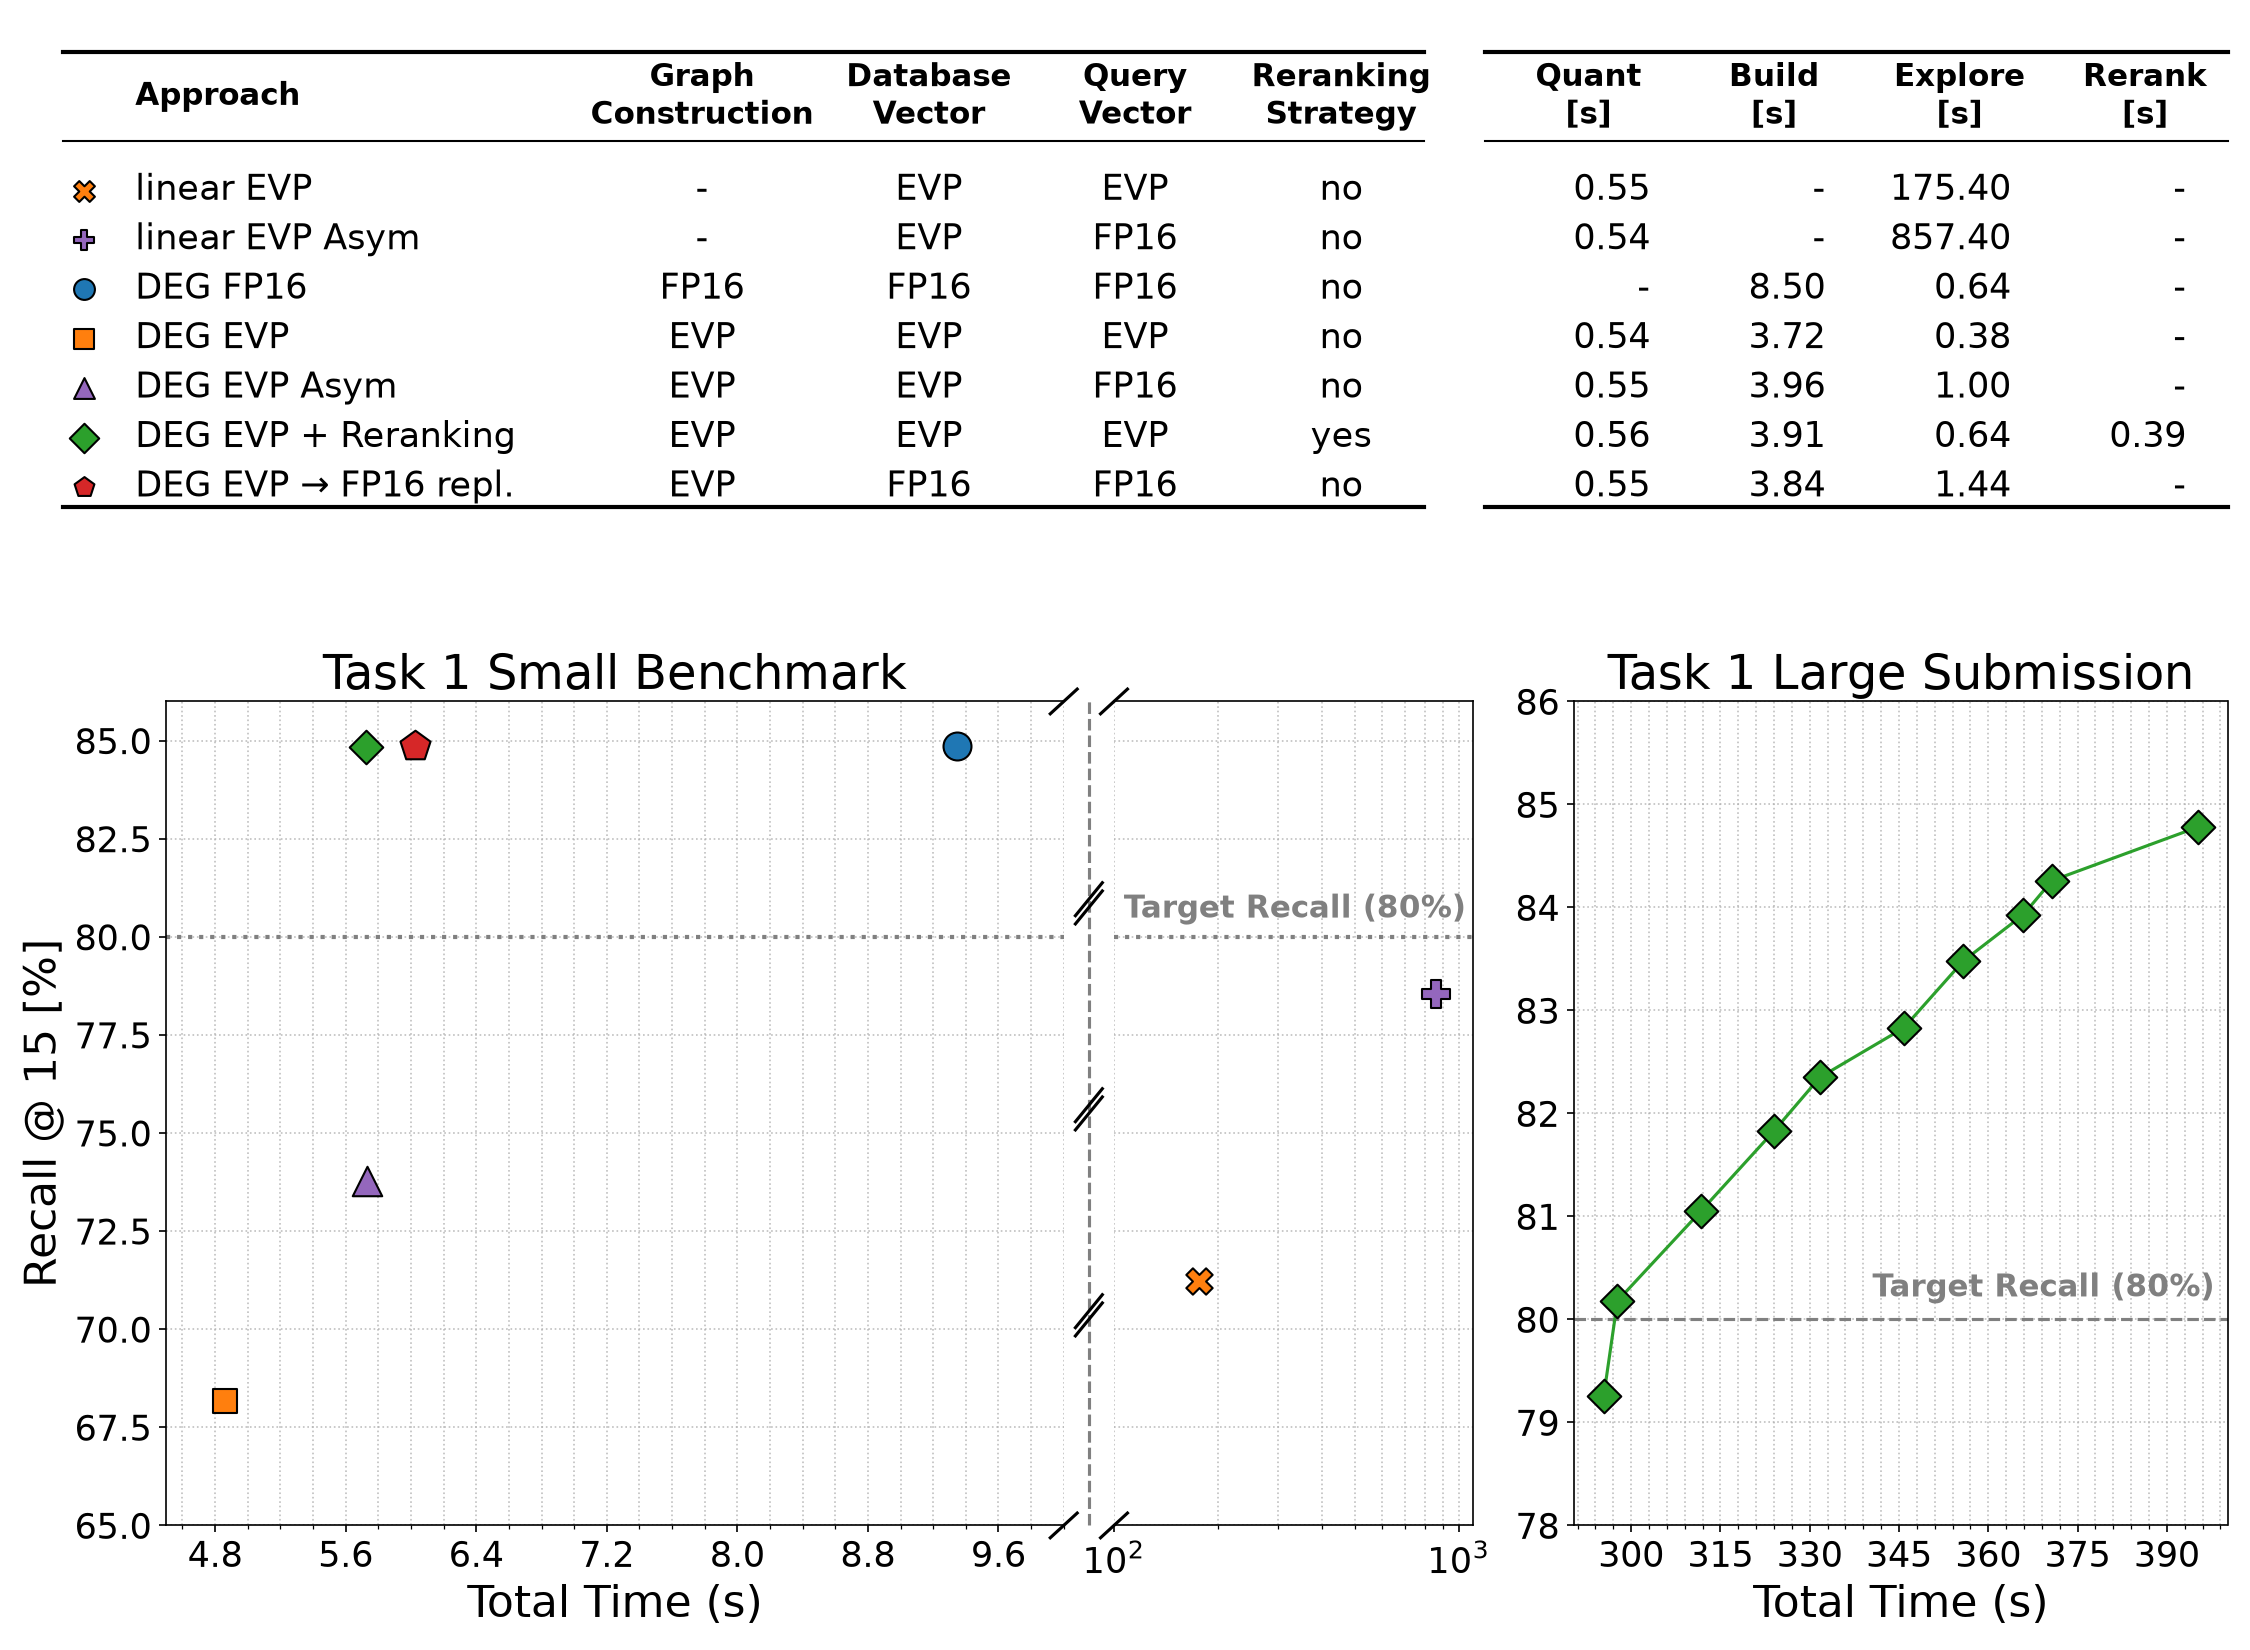
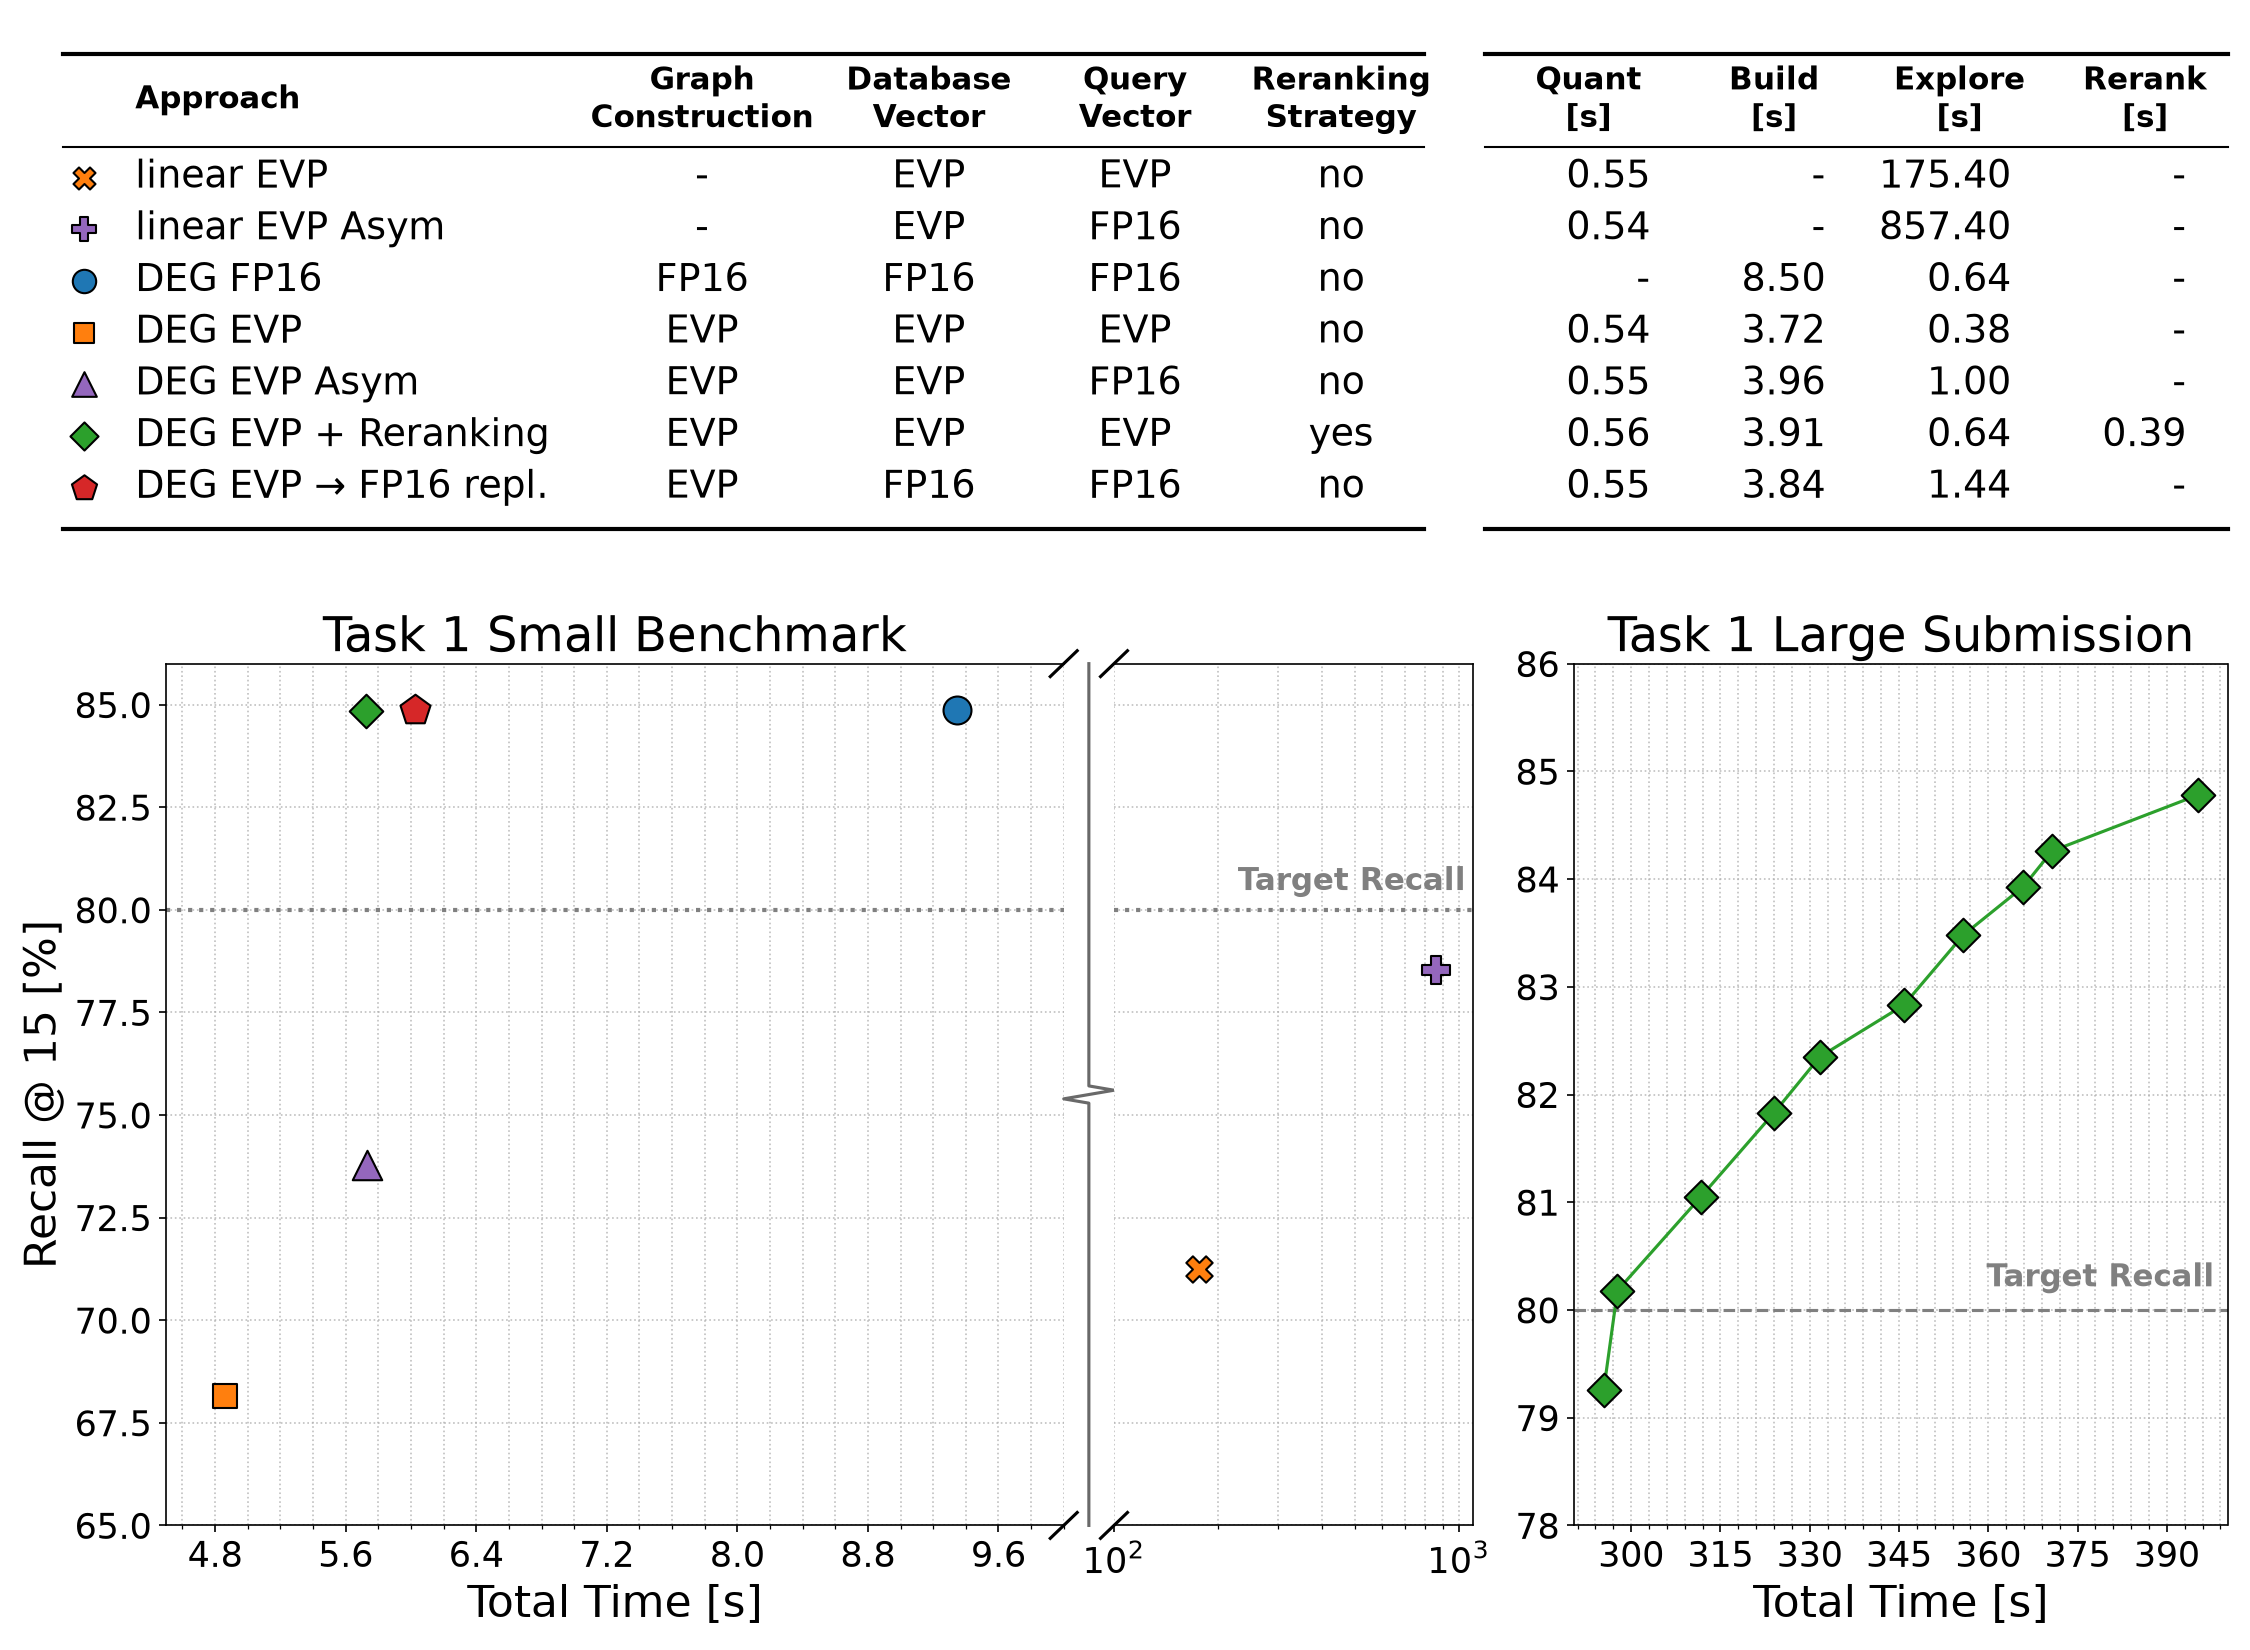
task2 cleanup

diff --git a/python/evaluate_combined_task1.py b/python/evaluate_combined_task1.py
@@ -110,6 +110,16 @@ def main() -> None:
             "recall": res_data.get("best_recall", 0.0) * 100.0
         })
 
+    small_sizes = {
+        "DEG FP16 Baseline": 180,
+        "DEG EVP Baseline": 130,
+        "DEG EVP-Asym": 200,
+        "DEG EVP + Reranking": 130,
+        "DEG EVP -> FP16 repl": 230,
+        "Lin EVP": 160,
+        "Lin EVP Asymm": 180,
+    }
+
     # Create figure with GridSpec to include a LaTeX-style table at the top
     fig = plt.figure(figsize=(15, 11), dpi=150)
     from matplotlib.gridspec import GridSpec
@@ -171,12 +181,13 @@ def main() -> None:
         ("tab:red", "p", "DEG EVP \u2192 FP16 repl.", "EVP", "FP16", "FP16", "no", "DEG EVP -> FP16 repl")
     ]
 
-    y_coords = [0.66, 0.56, 0.46, 0.36, 0.26, 0.16, 0.06]
+    y_coords = [0.70, 0.60, 0.50, 0.40, 0.30, 0.20, 0.10]
     for y, (color, style, app_name, graph, db, query, rerank, key) in zip(y_coords, rows):
         # Draw Symbol directly in the Approach column space
-        ax_table.scatter(-0.04, y, color=color, marker=style, s=100, edgecolor="black", zorder=5, clip_on=False)
+        marker_size = small_sizes.get(key, 150) * 0.7
+        ax_table.scatter(-0.04, y, color=color, marker=style, s=marker_size, edgecolor="black", zorder=5, clip_on=False)
         # Draw Approach name closer to the symbol
-        ax_table.text(-0.015, y, app_name, ha='left', va='center', fontsize=17, clip_on=False)
+        ax_table.text(-0.015, y, app_name, ha='left', va='center', fontsize=18, clip_on=False)
         
         data_entry = small_table_data.get(key, {"quant": "-", "build": "-", "explore": "-", "rerank": "-"})
         row_text = [
@@ -190,7 +201,7 @@ def main() -> None:
             data_entry["rerank"]
         ]
         for x, align, text in zip(data_x[1:], col_align[1:], row_text):
-            ax_table.text(x, y, text, ha=align, va='center', fontsize=17, clip_on=False)
+            ax_table.text(x, y, text, ha=align, va='center', fontsize=18, clip_on=False)
 
     # --- Plot Subplot 1: Task 1 Small ---
     # Draw horizontal baselines and label them directly
@@ -200,7 +211,7 @@ def main() -> None:
     # Target Recall 80% line drawn on both split plots
     ax1_left.axhline(y=80.0, color="gray", linestyle=":", linewidth=2.0)
     ax1_right.axhline(y=80.0, color="gray", linestyle=":", linewidth=2.0)
-    ax1_right.text(0.98, 80.0 + 0.3, "Target Recall (80%)", transform=trans_right, color="gray",
+    ax1_right.text(0.98, 80.0 + 0.3, "Target Recall", transform=trans_right, color="gray",
                    va="bottom", ha="right", fontsize=15, weight='bold')
 
     small_colors = {
@@ -221,15 +232,7 @@ def main() -> None:
         "Lin EVP": "X",
         "Lin EVP Asymm": "P",
     }
-    small_sizes = {
-        "DEG FP16 Baseline": 180,
-        "DEG EVP Baseline": 130,
-        "DEG EVP-Asym": 200,
-        "DEG EVP + Reranking": 130,
-        "DEG EVP -> FP16 repl": 230,
-        "Lin EVP": 160,
-        "Lin EVP Asymm": 180,
-    }
+
 
     # Plot on left or right subplot depending on the time range
     for name, color in small_colors.items():
@@ -254,7 +257,7 @@ def main() -> None:
     ax1_right.set_xlim(100, 1100)
 
     # Configure grid and labels
-    ax1_left.set_xlabel("Total Time (s)", fontsize=21)
+    ax1_left.set_xlabel("Total Time [s]", fontsize=21)
     ax1_left.set_ylabel("Recall @ 15 [%]", fontsize=21)
     ax1_left.set_title("Task 1 Small Benchmark", fontsize=23)
     ax1_left.tick_params(axis='both', which='major', labelsize=17)
@@ -281,17 +284,16 @@ def main() -> None:
     ax1_right.plot((-d * 2.5, +d * 2.5), (-d, +d), **kwargs)
     ax1_right.plot((-d * 2.5, +d * 2.5), (1 - d, 1 + d), **kwargs)
 
-    # Draw a prominent vertical break line and slashes in the center of the gap
+    # Draw a vertical line with a heartbeat/zig-zag in the center of the gap
     gap_x = 1.028  # center of the gap in ax1_left.transAxes coordinates
-    ax1_left.plot([gap_x, gap_x], [0, 1], color='gray', linestyle='--', linewidth=1.5, transform=ax1_left.transAxes, clip_on=False)
-    for y_center in [0.25, 0.50, 0.75]:
-        ax1_left.plot([gap_x - 0.015, gap_x + 0.015], [y_center - 0.02, y_center + 0.02], color='black', linewidth=1.5, transform=ax1_left.transAxes, clip_on=False)
-        ax1_left.plot([gap_x - 0.015, gap_x + 0.015], [y_center - 0.01, y_center + 0.03], color='black', linewidth=1.5, transform=ax1_left.transAxes, clip_on=False)
+    x_coords = [gap_x, gap_x, gap_x - 0.028, gap_x + 0.028, gap_x, gap_x]
+    y_coords = [0.0, 0.49, 0.495, 0.505, 0.51, 1.0]
+    ax1_left.plot(x_coords, y_coords, color='dimgray', linewidth=1.5, transform=ax1_left.transAxes, clip_on=False)
 
     # --- Plot Subplot 2: Task 1 Large ---
     trans2 = mtransforms.blended_transform_factory(ax2.transAxes, ax2.transData)
     ax2.axhline(y=80.0, color="gray", linestyle="--")
-    ax2.text(0.98, 80.0 + 0.15, "Target Recall (80%)", transform=trans2, color="gray",
+    ax2.text(0.98, 80.0 + 0.15, "Target Recall", transform=trans2, color="gray",
              va="bottom", ha="right", fontsize=15, weight='bold')
 
     # Filter and sort points by overall_time to draw a clean connected line
@@ -309,7 +311,7 @@ def main() -> None:
             color="tab:green", edgecolor="black", s=130, zorder=5, marker="D"
         )
 
-    ax2.set_xlabel("Total Time (s)", fontsize=21)
+    ax2.set_xlabel("Total Time [s]", fontsize=21)
     ax2.set_title("Task 1 Large Submission", fontsize=23)
     ax2.tick_params(axis='both', which='major', labelsize=17)
     ax2.grid(True, which="both", linestyle=":", alpha=0.8)
@@ -319,7 +321,7 @@ def main() -> None:
     # No legend on ax2 as requested!
 
     plt.tight_layout()
-    fig.subplots_adjust(hspace=0.28)
+    fig.subplots_adjust(hspace=0.18)
     plt.savefig(plot_path_png, dpi=150)
     plt.savefig(plot_path_pdf)
     plt.close()

diff --git a/python/evaluate_benchmark_task2.py b/python/evaluate_benchmark_task2.py
@@ -21,8 +21,6 @@ TARGET_MODES = [
     "mode10_no_flas",
     "mode10_flas",
     "mode10_ip_flas",
-    "mode5_flas",
-    "mode6_flas",
 ]
 
 # Mode details mapping
@@ -79,7 +77,7 @@ def main() -> None:
     results_dir = base_dir / "results" / "benchmark" / "task2"
     json_path = results_dir / "results.json"
     table_path = results_dir / "table.md"
-    plot_path = results_dir / "evaluation_recall_vs_time.png"
+    plot_path = results_dir / "evaluation_recall_vs_time_task2.png"
 
     print(f"Reading benchmark results from: {json_path}")
     if not json_path.exists():
@@ -142,11 +140,13 @@ def main() -> None:
     print(f"Successfully wrote summary table to: {table_path}")
 
     # Generate Plot matching original style but filtered
-    plt.figure(figsize=(12, 8), dpi=150)
+    plt.figure(figsize=(12, 7), dpi=150)
     ax = plt.gca()
-
     # Draw Target Recall Baseline (dotted gray line)
-    plt.axhline(y=80.0, color="gray", linestyle=":", linewidth=2.5, label="Target Recall (80%)")
+    plt.axhline(y=80.0, color="gray", linestyle=":", linewidth=2.5)
+    import matplotlib.transforms as transforms
+    trans = transforms.blended_transform_factory(ax.transAxes, ax.transData)
+    plt.text(0.5, 80.2, "Target Recall", color="gray", fontsize=14, va="bottom", ha="center", fontweight="bold", transform=trans)
 
     # Plot curves for target modes
     for name in TARGET_MODES:
@@ -181,8 +181,8 @@ def main() -> None:
             )
 
     # Style axes and grid
-    plt.xlabel("Search Time (ms)", fontsize=20, labelpad=10)
-    plt.ylabel("Recall @ 30 (%)", fontsize=20, labelpad=10)
+    plt.xlabel("Search Time [ms]", fontsize=20, labelpad=10)
+    plt.ylabel("Recall @ 30 [%]", fontsize=20, labelpad=10)
     plt.title("Task 2 Benchmark — Recall @ 30 vs Search Time", fontsize=22, pad=15)
     
     # Grid configuration matching original benchmark style
@@ -205,13 +205,9 @@ def main() -> None:
     base_labels = {
         "mode3": "FP32 IP Build & FP16 IP Search",
         "mode10": "FP32 IP Build (d+1) & FP16 IP Search",
-        "mode5": "FP32 L2 Build (d+1) & FP16 IP Search",
-        "mode6": "FP32 L2 Build (d+1) & FP16 L2 Search",
     }
-    base_handles = [
-        mlines.Line2D([], [], color="gray", linestyle=":", linewidth=2.5, label="Target Recall (80%)")
-    ]
-    legend_order = ["mode3", "mode10", "mode5", "mode6"]
+    base_handles = []
+    legend_order = ["mode3", "mode10"]
     for mode_num in legend_order:
         if mode_num in base_labels:
             color = COLOR_MAP.get(mode_num, "tab:gray")
@@ -232,8 +228,8 @@ def main() -> None:
     style_row = HPacker(pad=5, sep=20, children=list(main_packer.get_children()))
     leg_temp.remove()
 
-    # Add main legend to lower right
-    leg1 = ax.legend(handles=base_handles, loc="lower right", labelspacing=0.8, fontsize=15, handlelength=3.0)
+    # Add main legend to lower center
+    leg1 = ax.legend(handles=base_handles, loc="lower center", labelspacing=0.8, fontsize=15, handlelength=3.0)
     ax.add_artist(leg1)
 
     # Append style_row to the bottom of the main legend's column packer

diff --git a/python/results/benchmark/task2/table.md b/python/results/benchmark/task2/table.md
@@ -8,5 +8,3 @@
 | mode10 | Mode 10: FP32 IP Build (d+1) & FP16 IP Search (no FLAS) | eps=0.18, max_dist=8000 | 0.06s | 24.80s | — | 25.10s | 35.50 ms | 81.50% |
 | mode10 | Mode 10: FP32 IP Build (d+1) & FP16 IP Search (+ L2 FLAS) | eps=0.18, max_dist=6000 | 0.06s | 21.20s | 38.70s | 21.50s | 28.90 ms | 80.08% |
 | mode10 | Mode 10: FP32 IP Build (d+1) & FP16 IP Search (+ IP FLAS) | eps=0.18, max_dist=7000 | 0.06s | 21.00s | 38.20s | 21.30s | 32.60 ms | 81.13% |
-| mode5 | Mode 5: FP32 L2 Build (d+1) & FP16 IP Search (+ L2 FLAS) | eps=0.18, max_dist=7000 | 0.06s | 19.00s | 38.40s | 19.30s | 32.10 ms | 80.33% |
-| mode6 | Mode 6: FP32 L2 Build (d+1) & FP16 L2 Search (+ L2 FLAS) | eps=0.007, max_dist=8000 | 0.06s | 18.50s | 38.50s | 18.80s | 32.20 ms | 80.32% |